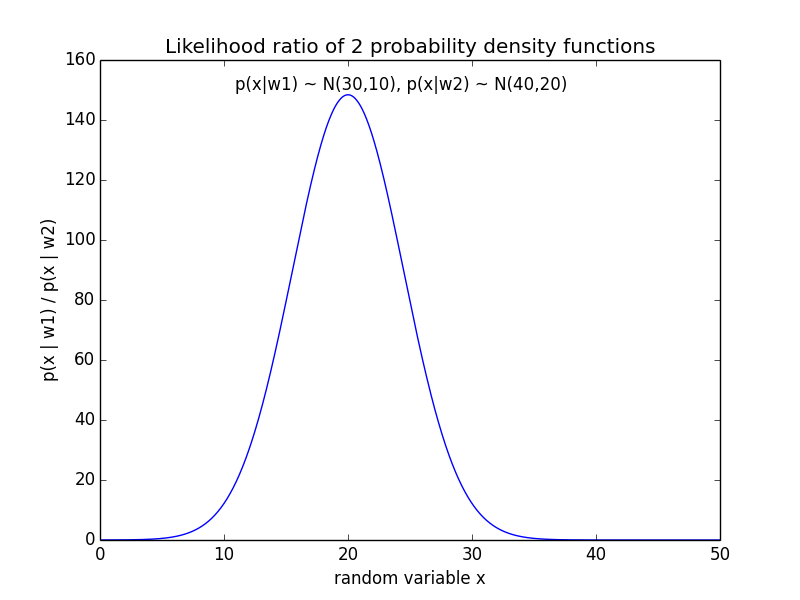
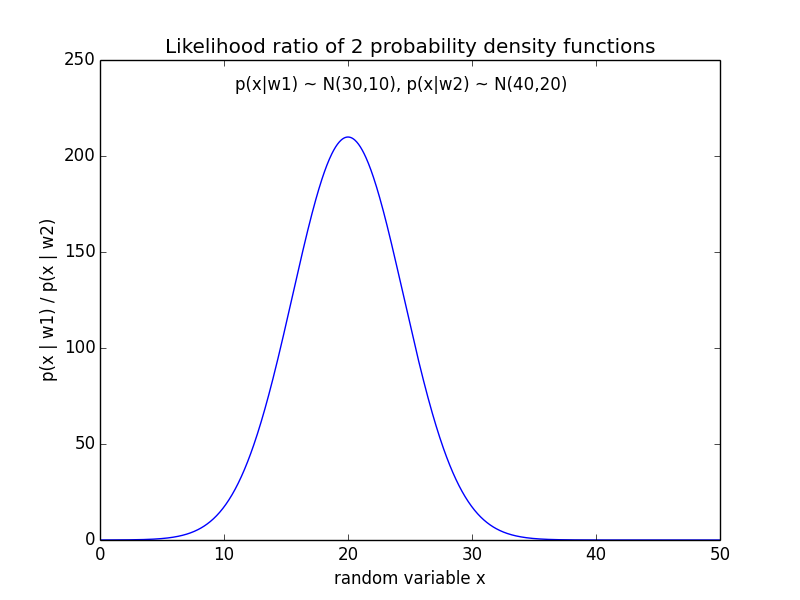
fixed pdf function

diff --git a/functions_and_distributions/probability_density_func/likelihood_ratio.py b/functions_and_distributions/probability_density_func/likelihood_ratio.py
@@ -6,18 +6,18 @@ import numpy as np
 from matplotlib import pyplot as plt
 import math
 
-def pdf(x, mean=0, std_dev=1):
+def pdf(x, mu=0, sigma=1):
     """Calculates the normal distribution's probability density 
         function (PDF).  
         
     """
-    term1 = 1.0 / math.sqrt(2*np.pi) 
-    term2 = np.exp( -0.5 * ( (x-mean)/std_dev )**2 )
+    term1 = 1.0 / ( math.sqrt(2*np.pi) * sigma )
+    term2 = np.exp( -0.5 * ( (x-mu)/sigma )**2 )
     return term1 * term2
 
 x = np.arange(0, 50, 0.05)
 
-likelihood_ratio = pdf(x, mean=30, std_dev=10**0.5) / pdf(x, mean=40, std_dev=20**0.5)
+likelihood_ratio = pdf(x, mu=30, sigma=10**0.5) / pdf(x, mu=40, sigma=20**0.5)
 
 
 plt.plot(x, likelihood_ratio)

diff --git a/functions_and_distributions/probability_density_func/probability_density_func.py b/functions_and_distributions/probability_density_func/probability_density_func.py
@@ -5,20 +5,20 @@ import numpy as np
 from matplotlib import pyplot as plt
 import math
 
-def pdf(x, mean=0, std_dev=1):
+def pdf(x, mu=0, sigma=1):
     """Calculates the normal distribution's probability density 
         function (PDF).  
         
     """
-    term1 = 1.0 / math.sqrt(2*np.pi) 
-    term2 = np.exp( -0.5 * ( (x-mean)/std_dev )**2 )
+    term1 = 1.0 / ( math.sqrt(2*np.pi) * sigma )
+    term2 = np.exp( -0.5 * ( (x-mu)/sigma )**2 )
     return term1 * term2
 
 
 x = np.arange(0, 100, 0.05)
 
-pdf1 = pdf(x, mean=5, std_dev=2.5**0.5)
-pdf2 = pdf(x, mean=10, std_dev=6**0.5)
+pdf1 = pdf(x, mu=5, sigma=2.5**0.5)
+pdf2 = pdf(x, mu=10, sigma=6**0.5)
 
 plt.plot(x, pdf1)
 plt.plot(x, pdf2)
